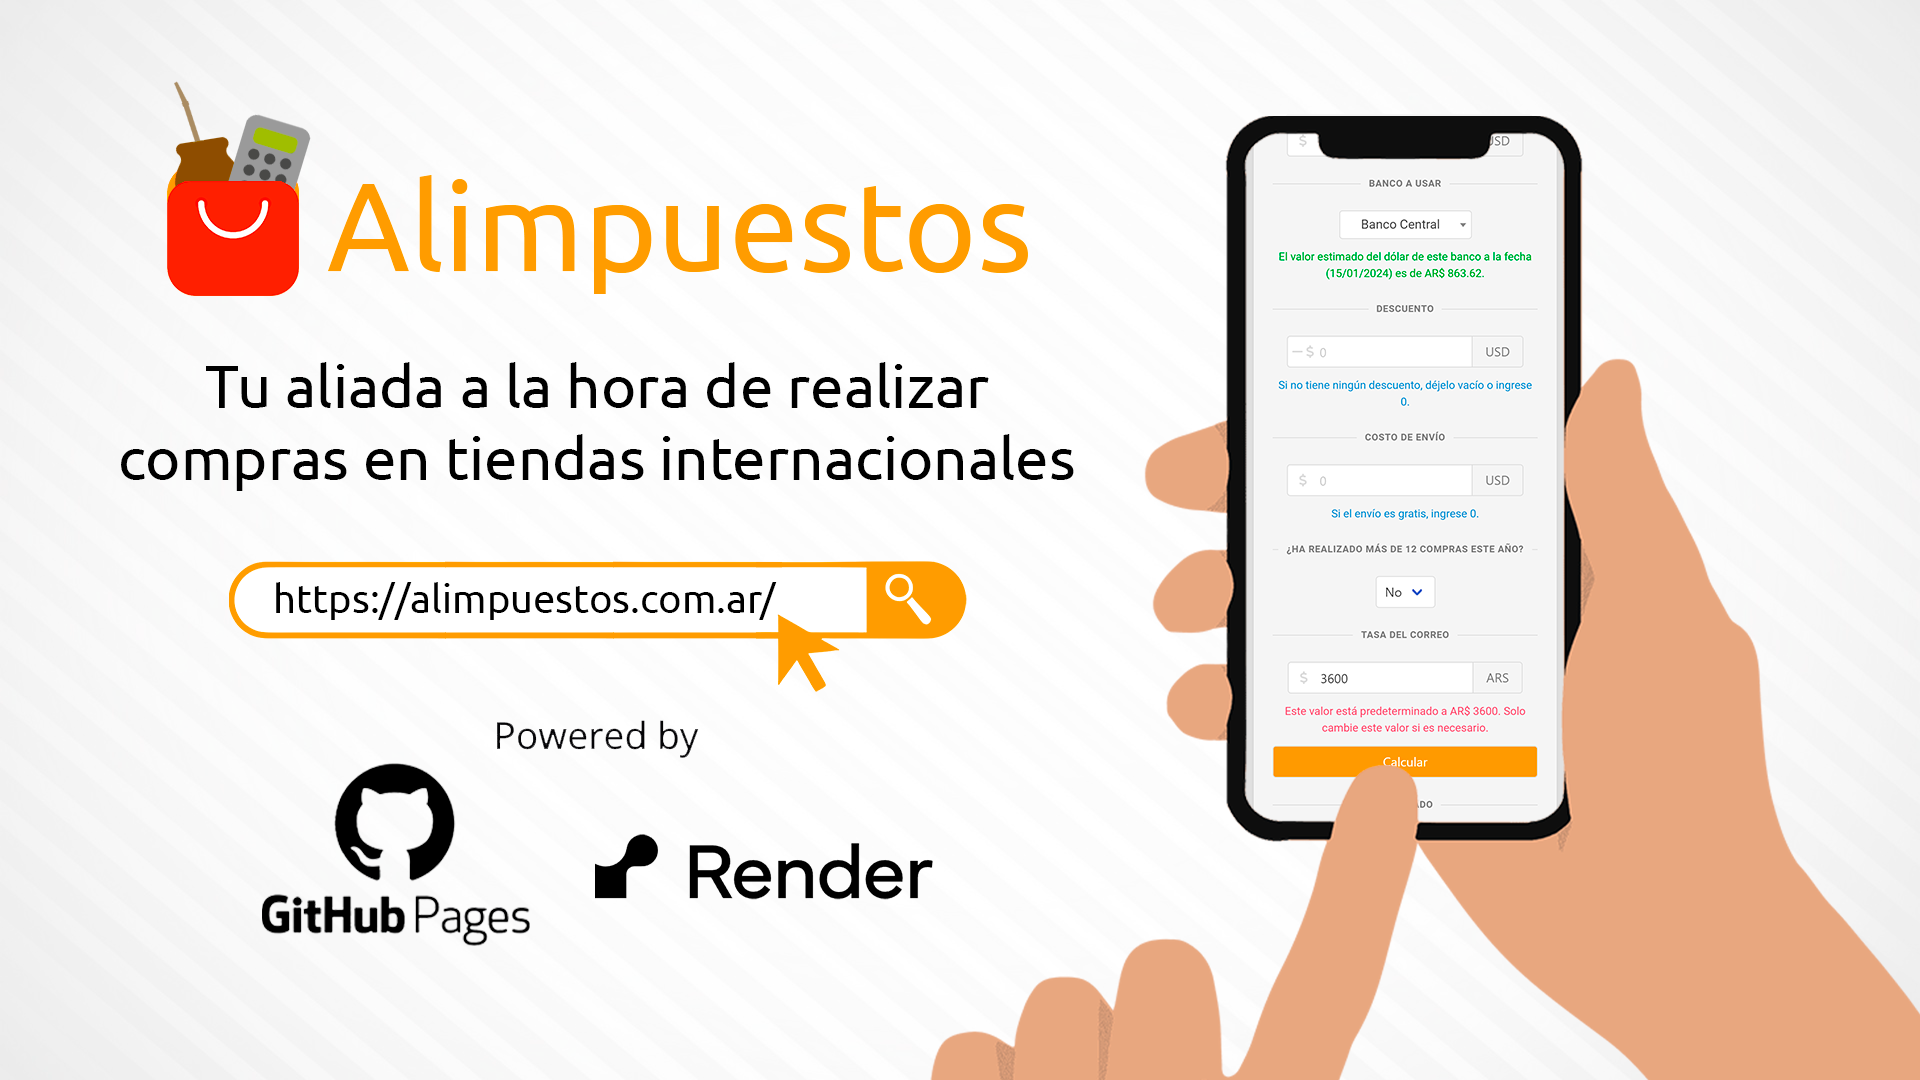
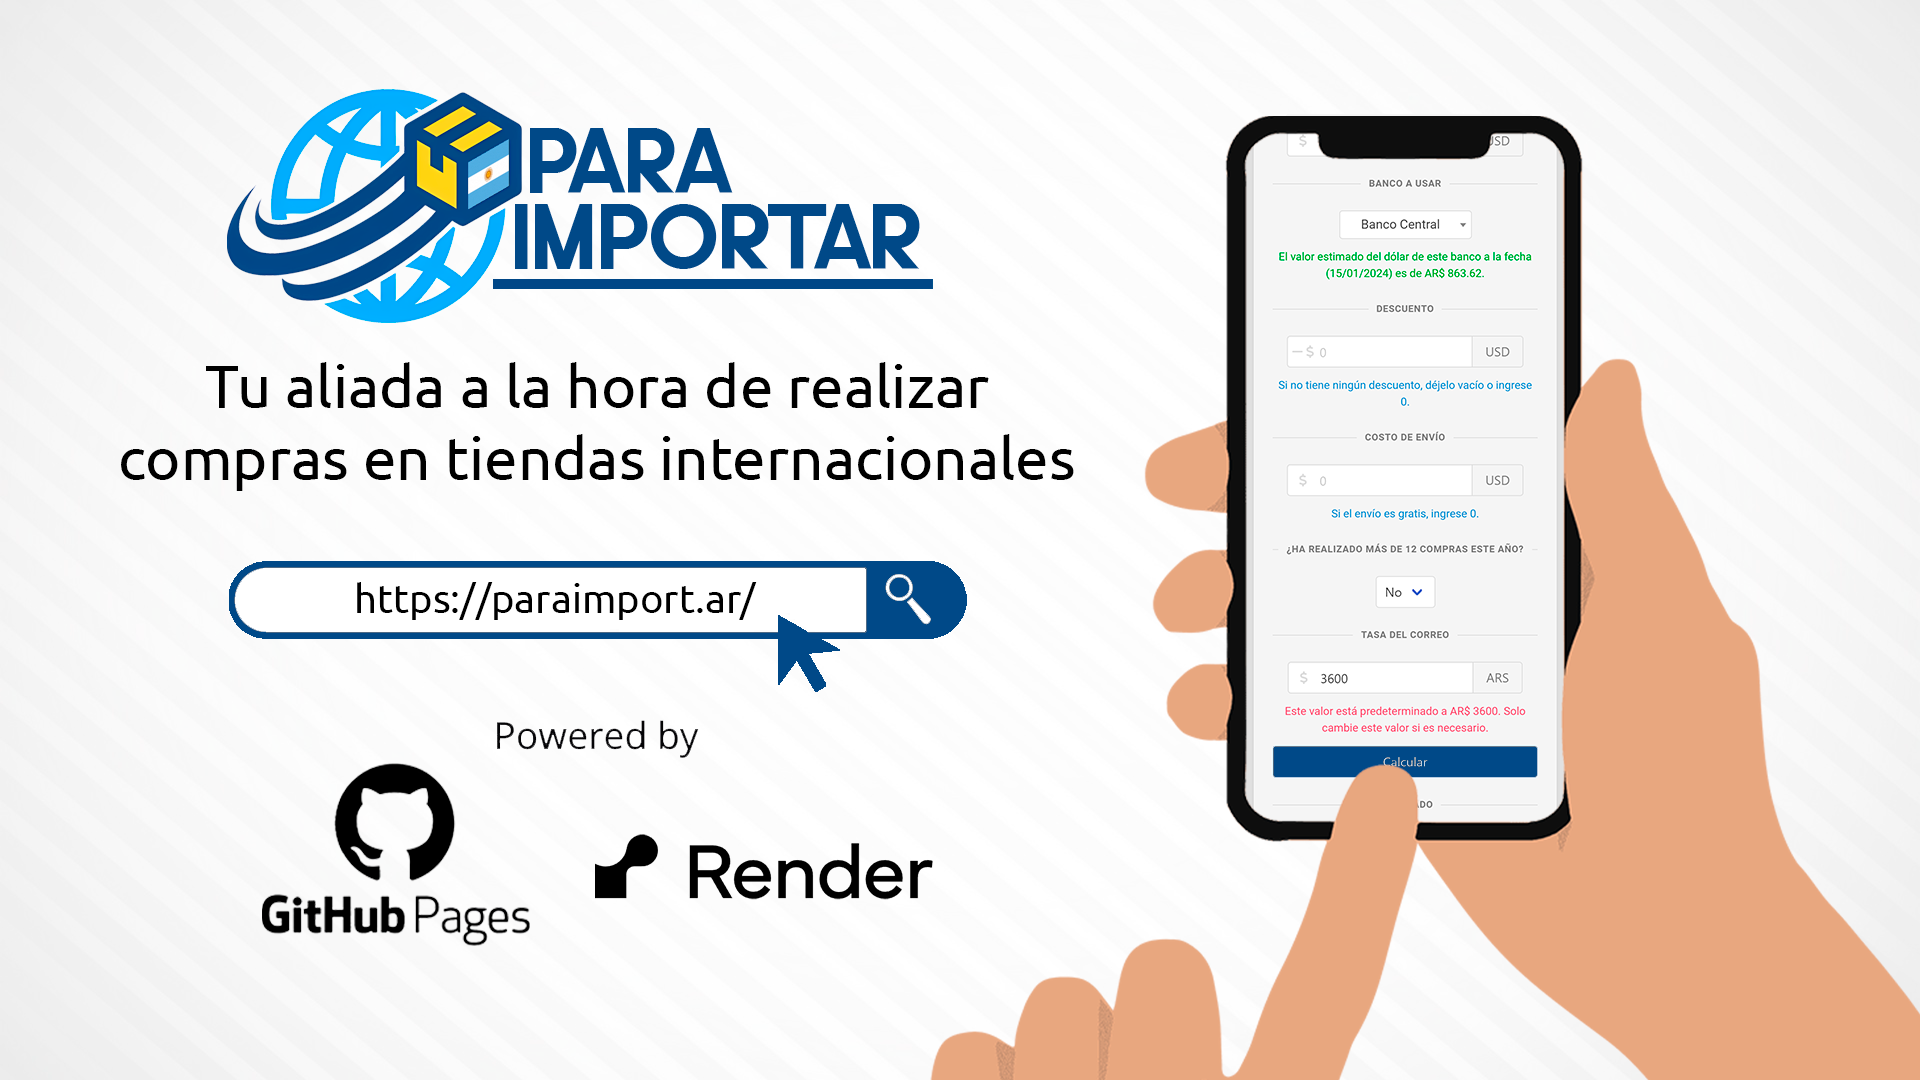
Cambio oficial en el sitio web

Changed region(s): [[0.0625, 0.0611, 0.5312, 0.3056], [0.0938, 0.5194, 0.5, 0.6417], [0.6562, 0.6722, 0.8125, 0.7333]]

diff --git a/legales.html b/legales.html
@@ -4,47 +4,47 @@
 <head>
     <meta charset="UTF-8">
     <meta name="viewport" content="width=device-width, initial-scale=1.0">
-    <title>Alimpuestos - Calculadora de Impuestos</title>
+    <title>ParaImportar - Calculadora de Impuestos</title>
     <!-- Meta Tags -->
-    <meta property="og:title" content="Alimpuestos - Calculadora de Impuestos">
+    <meta property="og:title" content="ParaImportar - Calculadora de Impuestos">
     <meta property="og:description"
         content="Calculadora de Impuestos. Calcula cuánto vas a pagar por un producto, incluyendo impuestos y tasas.">
-    <meta property="og:image" content="https://alimpuestos.com.ar/assets/img/banner-meta.png">
+    <meta property="og:image" content="https://paraimport.ar/assets/img/banner-meta.png">
     <meta property="og:image:width" content="1200">
     <meta property="og:image:height" content="630">
-    <meta property="og:url" content="https://alimpuestos.com.ar/">
+    <meta property="og:url" content="https://paraimport.ar/">
     <meta property="og:type" content="website">
     <!-- Google Meta Tags -->
     <meta name="author" content="MixDevCode">
     <meta name="keywords"
-        content="calculadora de impuestos, alimpuestos, calculadora aduana, argentina, impuestos en línea, comercio en línea">
+        content="calculadora de impuestos, alimpuestos, calculadora aduana, argentina, impuestos en línea, comercio en línea, para importar, paraimportar">
     <meta name="description"
         content="Calculadora de Impuestos. Calcula cuánto vas a pagar por un producto, incluyendo impuestos y tasas.">
     <meta name="robots" content="index, follow">
     <meta name="google-site-verification" content="tz0YynZQ61E3HRtZxp1iZCDc7P4GbMwRP8m0_2GvMls" />
     <!-- Google tag (gtag.js) -->
-    <script async src="https://www.googletagmanager.com/gtag/js?id=G-SB4E3HL275"></script>
+    <script async src="https://www.googletagmanager.com/gtag/js?id=G-1T4P6D6Y8V"></script>
     <script>
         window.dataLayer = window.dataLayer || [];
         function gtag(){dataLayer.push(arguments);}
         gtag('js', new Date());
 
-        gtag('config', 'G-SB4E3HL275');
+        gtag('config', 'G-1T4P6D6Y8V');
     </script>
     <!-- Twitter Meta Tags -->
     <meta name="twitter:card" content="summary_large_image">
-    <meta name="twitter:title" content="Alimpuestos - Calculadora de Impuestos">
-    <meta name="twitter:site" content="@AlimpuestosAR">
-    <meta name="twitter:creator" content="@AlimpuestosAR">
+    <meta name="twitter:title" content="ParaImportar - Calculadora de Impuestos">
+    <meta name="twitter:site" content="@ParaImportAR">
+    <meta name="twitter:creator" content="@ParaImportAR">
     <meta name="twitter:description"
         content="Calculadora de Impuestos para compras en tiendas internacionales. Calculá cuánto vas a pagar por un producto, incluyendo impuestos y tasas.">
     <!-- Facebook Meta Tags -->
     <meta name="facebook-domain-verification" content="t904sum7jzn2jkmmq6ll05e6zalf7e" />
     <!-- PWA Meta Tags -->
     <meta name="theme-color" content="#234a85">
-    <meta name="application-name" content="Alimpuestos">
+    <meta name="application-name" content="ParaImportar">
     <meta name="apple-mobile-web-app-capable" content="yes">
-    <meta name="apple-mobile-web-app-title" content="Alimpuestos">
+    <meta name="apple-mobile-web-app-title" content="ParaImportar">
     <meta name="mobile-web-app-capable" content="yes">
     <!-- Manifest -->
     <link rel="manifest" href="/site.webmanifest">
@@ -70,8 +70,10 @@
     <div class="columns is-centered mr-1 ml-1">
         <div
             class="column is-two-fifths has-text-centered is-horizontal-center is-6-fullhd is-8-desktop is-9-tablet is-12-mobile">
-            <a href="https://alimpuestos.com.ar">
-                <h1 class="logo">Alimpuestos</h1>
+            <a href="https://paraimport.ar">
+                <figure class="image logo" style="max-width:400px">
+                    <img src="assets/img/logo-s.png" alt="Logo de ParaImportar" />
+                </figure>
             </a>
             <br>
             <div class="card">
@@ -85,14 +87,14 @@
                         Última actualización: 07 de diciembre de 2023
                         <br>
                         <br>
-                        Bienvenido a Alimpuestos, tu plataforma confiable para calcular impuestos. Antes de utilizar
+                        Bienvenido a ParaImportar, tu plataforma confiable para calcular impuestos. Antes de utilizar
                         nuestro sitio, te solicitamos que revises detenidamente
                         este aviso legal que establece las condiciones de uso.
                         <br>
                         <br>
                         <b>1. Sin Afiliación con AliExpress o Alibaba:</b>
                         <br>
-                        Alimpuestos no tiene ninguna relación, afiliación ni asociación con AliExpress, Alibaba ni
+                        ParaImportar no tiene ninguna relación, afiliación ni asociación con AliExpress, Alibaba ni
                         ninguna otra entidad relacionada. Cualquier mención de marcas registradas, logotipos o nombres
                         comerciales de terceros en este sitio pertenece a sus respectivos titulares y son únicamente con
                         el fin de informar a los usuarios
@@ -111,7 +113,7 @@
                         <br>
                         <b>3. Responsabilidad Limitada:</b>
                         <br>
-                        Alimpuestos no asume responsabilidad alguna por el uso de la información proporcionada en este
+                        ParaImportar no asume responsabilidad alguna por el uso de la información proporcionada en este
                         sitio ni por las decisiones basadas en dicha información. Los usuarios deben verificar la
                         exactitud de los cálculos y buscar asesoramiento profesional para obtener orientación
                         personalizada.
@@ -126,12 +128,12 @@
                         <br>
                         <b>5. Enlaces a Sitios Externos:</b>
                         <br>
-                        Alimpuestos puede contener enlaces a sitios web externos. No nos responsabilizamos del contenido
+                        ParaImportar puede contener enlaces a sitios web externos. No nos responsabilizamos del contenido
                         ni de las prácticas de privacidad de sitios externos, y los usuarios acceden a ellos bajo su
                         propio riesgo.
                         <br>
                         <br>
-                        Al utilizar Alimpuestos, aceptas los términos y condiciones establecidos en este aviso legal. Si
+                        Al utilizar ParaImportar, aceptas los términos y condiciones establecidos en este aviso legal. Si
                         no estás de acuerdo con estos términos, te recomendamos que no utilices este sitio. Para obtener
                         asesoramiento personalizado, te instamos a que consultes a profesionales cualificados en materia
                         legal, fiscal o financiera.

diff --git a/index.html b/index.html
@@ -9,10 +9,10 @@
     <meta property="og:title" content="ParaImportar - Calculadora de Impuestos">
     <meta property="og:description"
         content="Calculadora de Impuestos. Calcula cuánto vas a pagar por un producto, incluyendo impuestos y tasas.">
-    <meta property="og:image" content="https://alimpuestos.com.ar/assets/img/banner-meta.png">
+    <meta property="og:image" content="https://paraimport.ar/assets/img/banner-meta.png">
     <meta property="og:image:width" content="1200">
     <meta property="og:image:height" content="630">
-    <meta property="og:url" content="https://alimpuestos.com.ar/">
+    <meta property="og:url" content="https://paraimport.ar/">
     <meta property="og:type" content="website">
     <!-- Google Meta Tags -->
     <meta name="author" content="MixDevCode">
@@ -23,13 +23,13 @@
     <meta name="robots" content="index, follow">
     <meta name="google-site-verification" content="tz0YynZQ61E3HRtZxp1iZCDc7P4GbMwRP8m0_2GvMls" />
     <!-- Google tag (gtag.js) -->
-    <script async src="https://www.googletagmanager.com/gtag/js?id=G-SB4E3HL275"></script>
+    <script async src="https://www.googletagmanager.com/gtag/js?id=G-1T4P6D6Y8V"></script>
     <script>
         window.dataLayer = window.dataLayer || [];
-        function gtag() { dataLayer.push(arguments); }
+        function gtag(){dataLayer.push(arguments);}
         gtag('js', new Date());
 
-        gtag('config', 'G-SB4E3HL275');
+        gtag('config', 'G-1T4P6D6Y8V');
     </script>
     <!-- Twitter Meta Tags -->
     <meta name="twitter:card" content="summary_large_image">
@@ -123,16 +123,14 @@
     <!-- TEMPORAL NOTIFICATION FOR DOMAIN CHANGES-->
     <div class="notification is-success" style="text-align:center;border-radius: 0px;">
         <button class="delete"></button>
-        <strong>ATENCIÓN: </strong>Alimpuestos (<a href="https://alimpuestos.com.ar"
-        style="text-decoration: none;">alimpuestos.com.ar</a>) pasará a llamarse "ParaImportar". 
-        <br>Si bien ya se comenzará a ver los cambios, se estará comunicando el nuevo dominio en los próximos días.
-        <br><b>¡Gracias por seguir eligiendo esta calculadora!</b>
+        <strong>ATENCIÓN: </strong>AHORA SOMOS <b>PARAIMPORTAR</b>! Nueva imagen para un nuevo año ;).
+        <br>En un futuro no muy lejano habrán cambios y más funciones dentro de la web!
     </div>
     <!-- Main Content-->
     <div class="columns is-centered mr-1 ml-1" style="text-align: center;">
         <div
             class="column is-two-fifths has-text-centered is-horizontal-center is-6-fullhd is-8-desktop is-9-tablet is-12-mobile">
-            <a href="https://alimpuestos.com.ar">
+            <a href="https://paraimport.ar">
                 <figure class="image logo" style="max-width:400px">
                     <img src="assets/img/logo-s.png" alt="Logo de ParaImportar" />
                 </figure>
@@ -305,13 +303,13 @@
                         <!-- Footer -->
                         <p>¿Te sirvió la calculadora?<a href="#" id="botonApp" hidden> Instalá la app!</a></p>
                         <br>
-                        <a href='https://cafecito.app/alimpuestos' rel='noopener' target='_blank'><img
+                        <a href='https://cafecito.app/paraimportar' rel='noopener' target='_blank'><img
                                 srcset='https://cdn.cafecito.app/imgs/buttons/button_1.png 1x, https://cdn.cafecito.app/imgs/buttons/button_1_2x.png 2x, https://cdn.cafecito.app/imgs/buttons/button_1_3.75x.png 3.75x'
                                 src='https://cdn.cafecito.app/imgs/buttons/button_1.png'
                                 alt='Invitame un café en cafecito.app' /></a>
                         <br>
                         <br>
-                        <a href="https://alimpuestos.com.ar/legales.html">Avisos Legales</a>
+                        <a href="https://paraimport.ar/legales.html">Avisos Legales</a>
                         </p>
                         <br>
                         <!-- End Footer -->

diff --git a/README.md b/README.md
@@ -6,7 +6,7 @@
 # ParaImportar
 ParaImportar es una calculadora que te permite saber cuánto vas a terminar pagando por un producto en tiendas como Wish, Amazon, Aliexpress, Ebay, etc. incluyendo impuestos y tasas aduaneras.
 
-[![Invitame un café en cafecito.app](https://cdn.cafecito.app/imgs/buttons/button_3.svg)](https://cafecito.app/alimpuestos)
+[![Invitame un café en cafecito.app](https://cdn.cafecito.app/imgs/buttons/button_3.svg)](https://cafecito.app/paraimportar)
 
 ***
 
